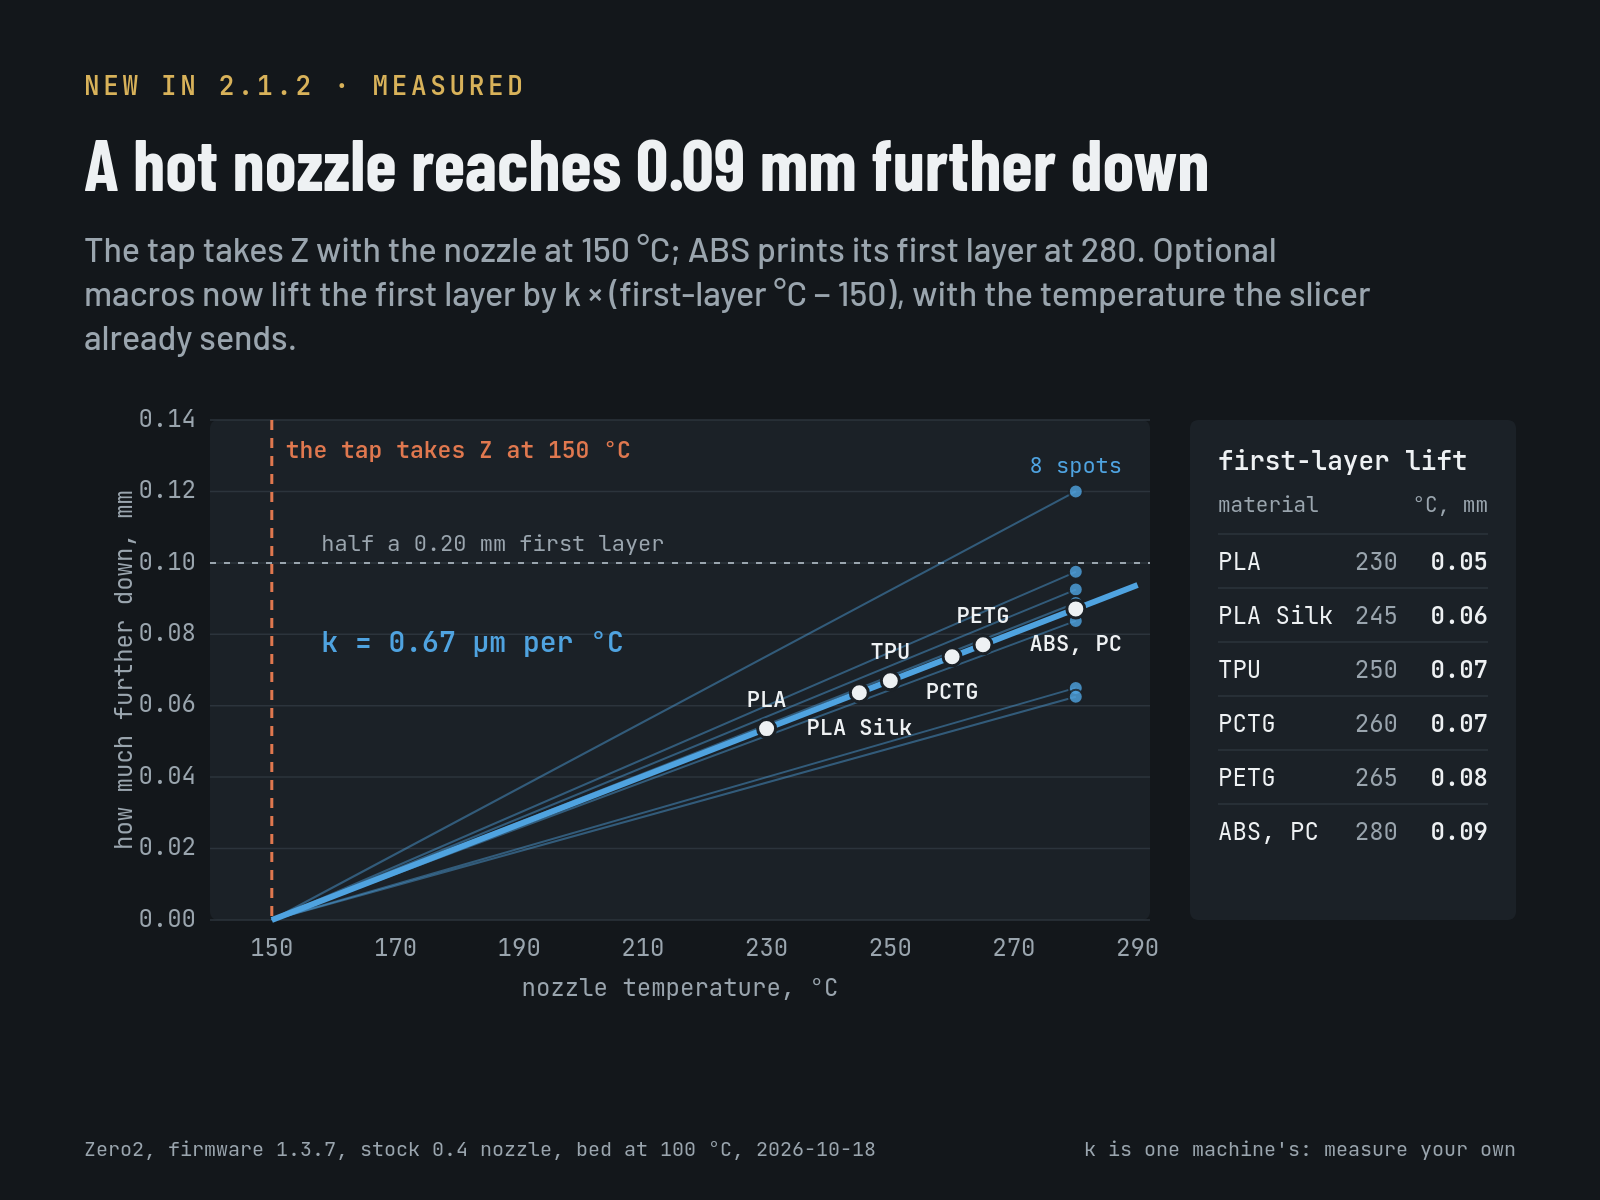
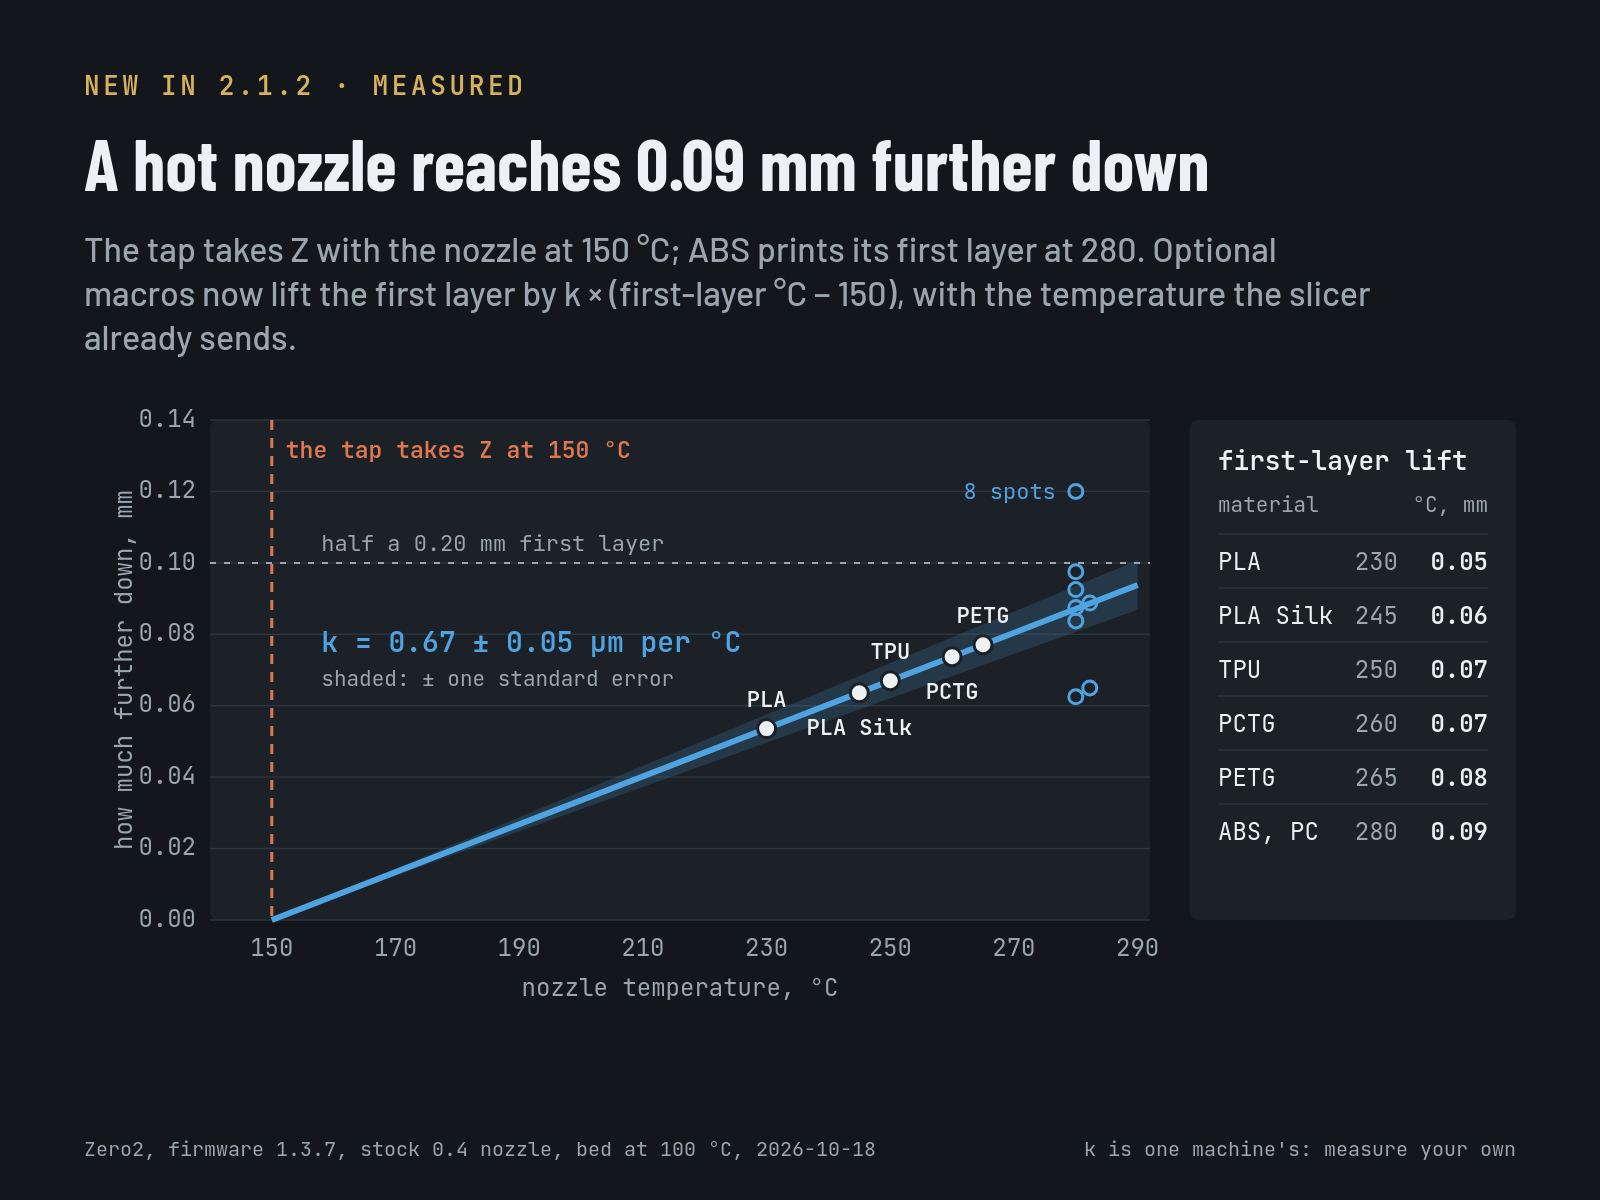
Nozzle growth: the figure as one line, and how k compares with others
The operator did not like the first figure's fan of eight per-spot
slopes. The figure now draws k as one line with a shaded standard-error
wedge, the eight measurements as dots at 280 C only, and the materials
on the line, with the lift table beside it.

The startup guide gains a "How it compares" paragraph, so an owner can
check 0.67 um/C without asking:
- garethky measured 0.67 um/C from 150 to 260 C with a toolhead load
  cell, and 0.51 cooling;
- RatOS defaults to 0.60 and warns outside 0.5-1.0;
- Prusa's XL model (0.41) and Creality's K2 curve run lower;
- fixed offsets elsewhere (K1 0.05-0.09 mm, Beacon's example 0.06 mm)
  match the pack's lifts.

diff --git a/docs/STARTUP.md b/docs/STARTUP.md
@@ -106,6 +106,25 @@ them hot first so a slow drift cancels: 0.67 µm/°C mean, standard error
 0.05. That is the published k. At that rate an ABS first layer at 280 °C
 against a 150 °C reference sits about 0.09 mm closer than calibrated.
 
+**How it compares.** Contact-probe measurements elsewhere land close:
+- **garethky**, a Klipper load-cell developer, on his own printer (a load cell
+  in the toolhead, a clean nozzle, a bare plate):
+  - 0.67 µm/°C from 150 to 260 °C;
+  - 0.51 from 260 back to 150;
+  - he uses 0.59, his average over heating and cooling
+    ([Klipper forum, 2023](https://klipper.discourse.group/t/2134/307)).
+- **RatOS** measures k on each machine with Beacon contact at 150 and 250 °C,
+  defaults to 0.60 µm/°C, and warns outside 0.5–1.0
+  ([util.cfg](https://github.com/Rat-OS/RatOS-configurator/blob/v2.1.x/configuration/macros/util.cfg)).
+- **Models built into firmware run lower.**
+  - Prusa's XL firmware assumes brass over 21 mm, 0.41 µm/°C, from 170 °C
+    ([source](https://github.com/prusa3d/Prusa-Firmware-Buddy/blob/master/src/feature/nozzle_thermal_compensation/nozzle_thermal_compensation.hpp)).
+  - Creality's K2 config reaches 0.05 mm at 260 °C
+    ([printer.cfg](https://github.com/CrealityOfficial/K2_Series_Klipper/blob/main/config/F021_CR0CN200400C10/printer.cfg)).
+- **Fixed offsets are about the size of this pack's lifts.** The Creality K1
+  family adds 0.05–0.09 mm, and Beacon's example start macro adds 0.06 mm
+  ([docs](https://docs.beacon3d.com/contact/)).
+
 | Firmware | Z reference | Reference temperature |
 |---|---|---|
 | 1.3.7, tare-tap (`probe_pressure`) | `Z_OFFSET_CALIBRATION METHOD=force_overlay` taps every print; `G28 Z` and the mesh follow | `_BRUSH` `probe_temp`, 150 °C, every job |
